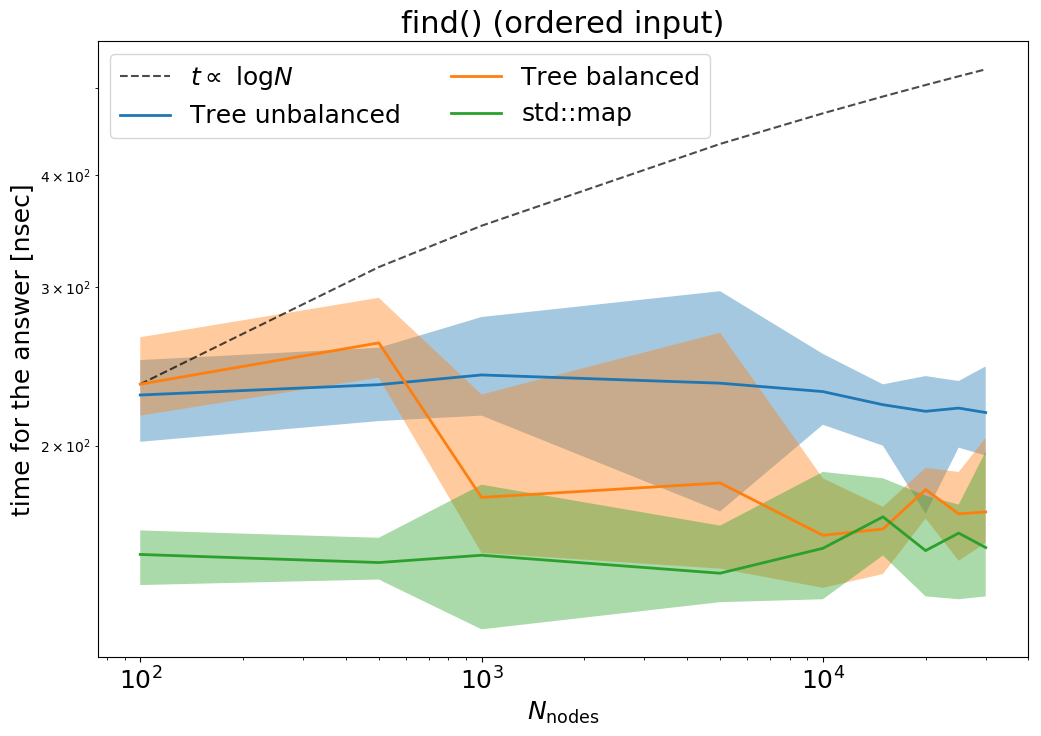
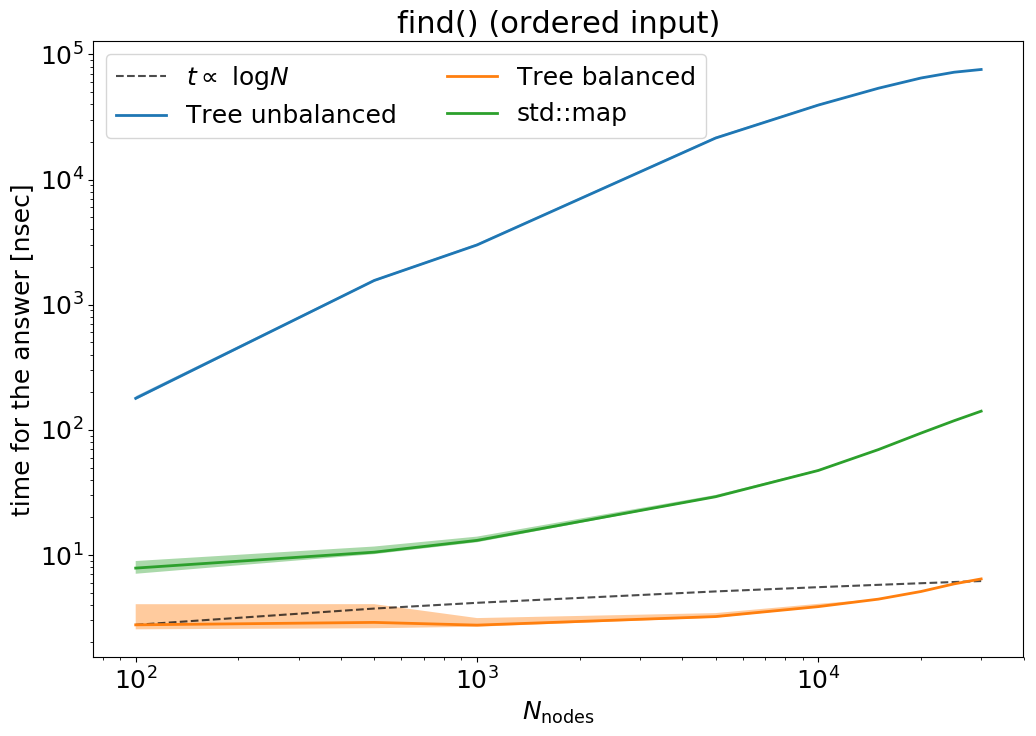
updated plots with final results

diff --git a/c++/analysis/plot_results.py b/c++/analysis/plot_results.py
@@ -1,33 +1,27 @@
 import matplotlib.pyplot as plt
 import numpy as np
 
-filein = "../output/test_ordered.dat"
+filein = "../output/test_unordered.dat"
 
 ss, minTu, Tu, maxTu, minTo, To, maxTo, minTm, Tm, maxTm = np.genfromtxt(filein, unpack=True)
 
 fig = plt.figure( figsize=(12,8) )
 ax = fig.add_subplot( 1, 1, 1 )
 
-ax.set_title("find() (ordered input)", fontsize=22)
+ax.set_title("find() (random input)", fontsize=22)
 ax.tick_params(axis='both', labelsize=18)
 ax.set_xscale('log')
-# ax.set_xlim([70, 1.4e+5])
 ax.set_xlabel("$N_\\mathrm{nodes}$", fontsize=18)
-# ax.set_xticks([1.e+2, 1.e+3, 1.e+4, 1.e+5])
-# ax.set_xticklabels(["$10^2$", "$10^3$", "$10^4$", "$10^5$"], fontsize=18)
 ax.set_yscale('log')
-# ax.set_ylim([40.,4000.])
 ax.set_ylabel("time for the answer [nsec]", fontsize=18)
-# ax.set_yticks([100., 1000.])
-# ax.set_yticklabels(["100", "1000"], fontsize=18)
 
-ax.plot(ss, To[0]*np.log10(ss)/np.log10(ss[0]), '--k', alpha=0.7, label="$t \\propto\\ \\log N$")
-ax.plot(ss, Tu, lw=2., label="Tree unbalanced")
-ax.fill_between(ss, minTu, maxTu, alpha=0.4)
-ax.plot(ss, To, lw=2., label="Tree balanced")
-ax.fill_between(ss, minTo, maxTo, alpha=0.4)
-ax.plot(ss, Tm, lw=2., label="std::map")
-ax.fill_between(ss, minTm, maxTm, alpha=0.4)
+ax.plot(ss, 1.e-4*To[0]*np.log10(ss)/np.log10(ss[0]), '--k', alpha=0.7, label="$t \\propto\\ \\log N$")
+ax.plot(ss, 1.e-4*Tu, lw=2., label="Tree unbalanced")
+ax.fill_between(ss, 1.e-4*minTu, 1.e-4*maxTu, alpha=0.4)
+ax.plot(ss, 1.e-4*To, lw=2., label="Tree balanced")
+ax.fill_between(ss, 1.e-4*minTo, 1.e-4*maxTo, alpha=0.4)
+ax.plot(ss, 1.e-4*Tm, lw=2., label="std::map")
+ax.fill_between(ss, 1.e-4*minTm, 1.e-4*maxTm, alpha=0.4)
 ax.legend(loc='upper left', fontsize=18, ncol=2)
-plt.savefig("../output/plot_ordered.png", bbox_inches='tight')
+plt.savefig("../output/plot_random.png", bbox_inches='tight')
 plt.show()
